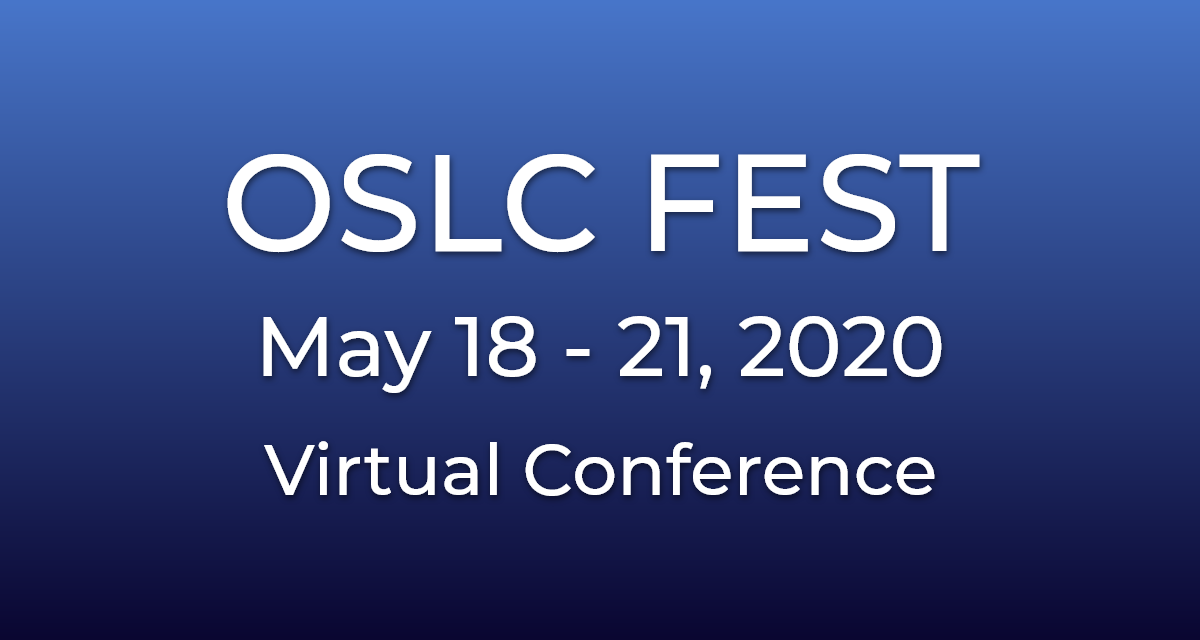
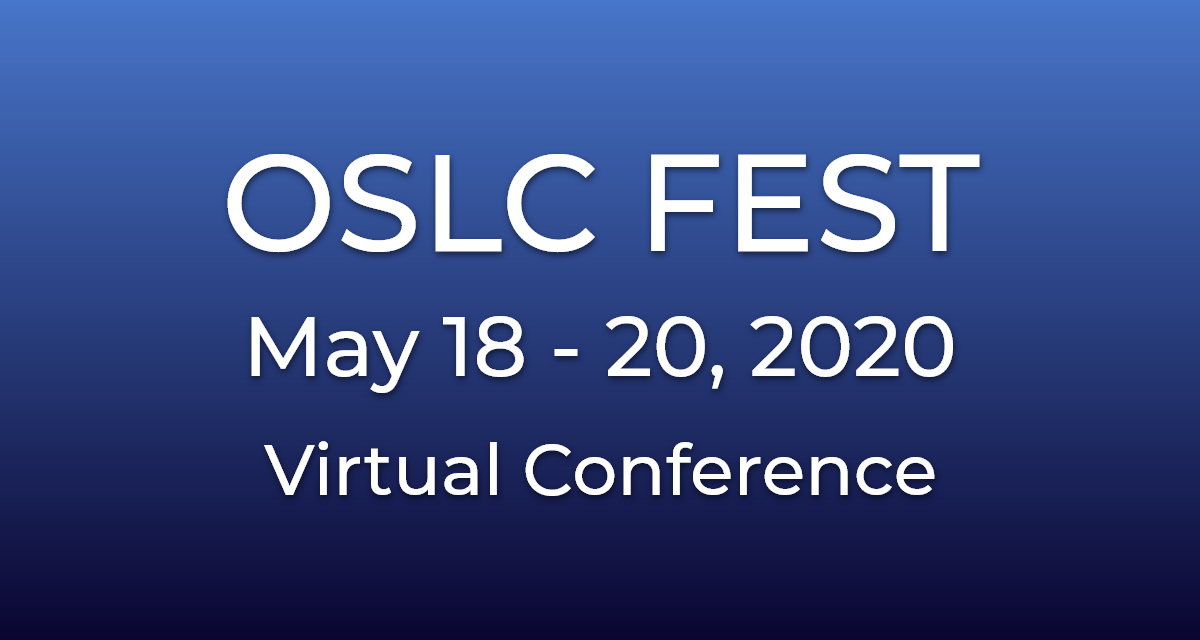
Updating Production Branch

Changed region(s): [[0.4933, 0.4688, 0.8017, 0.625], [0.185, 0.4688, 0.4933, 0.625]]

diff --git a/public/index.html b/public/index.html
@@ -20,12 +20,12 @@
   
   <meta name="twitter:card" content="summary_large_image">
   <meta name="twitter:site" content="@oslcfest">
-  <meta name="twitter:title" content="OSLC Fest May 18 - 21, 2020">
+  <meta name="twitter:title" content="OSLC Fest May 18 - 20, 2020">
   <meta name="twitter:description" content="The second conference on OSLC & LinkedData (OSLCFest) is comming, join us!">
   <meta name="twitter:image" content="http://oslcfest.org/images/banner-2020.png">
 
   
-  <meta property="og:title" content="OSLC Fest May 18 - 21, 2020" />
+  <meta property="og:title" content="OSLC Fest May 18 - 20, 2020" />
   <meta property="og:type" content="article" />
   <meta property="og:url" content="http://oslcfest.org/" />
   <meta property="og:image" content="http://oslcfest.org/images/banner-2020.png" />
@@ -85,7 +85,7 @@
     <div class="section--info">
       <h1 class="text-shadow big">OSLC FEST</h1>
       <h2 class="text-shadow big subtitle">OSLC and Linked Data Unconference</h2>
-      <h2 class="text-shadow big">May 18 - 21, 2020</h2>
+      <h2 class="text-shadow big">May 18 - 20, 2020</h2>
       <h3 class="text-shadow big alt">Virtual Conference</h3>
       <a href="#program" class="section--button registration button white hover--white">
         More information coming soon!

diff --git a/public/2018/index.html b/public/2018/index.html
@@ -20,12 +20,12 @@
   
   <meta name="twitter:card" content="summary_large_image">
   <meta name="twitter:site" content="@oslcfest">
-  <meta name="twitter:title" content="OSLC Fest May 18 - 21, 2020">
+  <meta name="twitter:title" content="OSLC Fest May 18 - 20, 2020">
   <meta name="twitter:description" content="The second conference on OSLC & LinkedData (OSLCFest) is comming, join us!">
   <meta name="twitter:image" content="http://oslcfest.org/images/banner-2020.png">
 
   
-  <meta property="og:title" content="OSLC Fest May 18 - 21, 2020" />
+  <meta property="og:title" content="OSLC Fest May 18 - 20, 2020" />
   <meta property="og:type" content="article" />
   <meta property="og:url" content="http://oslcfest.org/" />
   <meta property="og:image" content="http://oslcfest.org/images/banner-2020.png" />

diff --git a/public/past-events/index.html b/public/past-events/index.html
@@ -19,12 +19,12 @@
   
   <meta name="twitter:card" content="summary_large_image">
   <meta name="twitter:site" content="@oslcfest">
-  <meta name="twitter:title" content="OSLC Fest May 18 - 21, 2020">
+  <meta name="twitter:title" content="OSLC Fest May 18 - 20, 2020">
   <meta name="twitter:description" content="The second conference on OSLC & LinkedData (OSLCFest) is comming, join us!">
   <meta name="twitter:image" content="http://oslcfest.org/images/banner-2020.png">
 
   
-  <meta property="og:title" content="OSLC Fest May 18 - 21, 2020" />
+  <meta property="og:title" content="OSLC Fest May 18 - 20, 2020" />
   <meta property="og:type" content="article" />
   <meta property="og:url" content="http://oslcfest.org/" />
   <meta property="og:image" content="http://oslcfest.org/images/banner-2020.png" />

diff --git a/public/program/cross-discipline-lifecycle-collaboration-forum/index.html b/public/program/cross-discipline-lifecycle-collaboration-forum/index.html
@@ -20,12 +20,12 @@
   
   <meta name="twitter:card" content="summary_large_image">
   <meta name="twitter:site" content="@oslcfest">
-  <meta name="twitter:title" content="OSLC Fest May 18 - 21, 2020">
+  <meta name="twitter:title" content="OSLC Fest May 18 - 20, 2020">
   <meta name="twitter:description" content="The second conference on OSLC & LinkedData (OSLCFest) is comming, join us!">
   <meta name="twitter:image" content="http://oslcfest.org/images/banner-2020.png">
 
   
-  <meta property="og:title" content="OSLC Fest May 18 - 21, 2020" />
+  <meta property="og:title" content="OSLC Fest May 18 - 20, 2020" />
   <meta property="og:type" content="article" />
   <meta property="og:url" content="http://oslcfest.org/" />
   <meta property="og:image" content="http://oslcfest.org/images/banner-2020.png" />

diff --git a/public/program/eclipse-lyo-2-4-0-and-beyond/index.html b/public/program/eclipse-lyo-2-4-0-and-beyond/index.html
@@ -20,12 +20,12 @@
   
   <meta name="twitter:card" content="summary_large_image">
   <meta name="twitter:site" content="@oslcfest">
-  <meta name="twitter:title" content="OSLC Fest May 18 - 21, 2020">
+  <meta name="twitter:title" content="OSLC Fest May 18 - 20, 2020">
   <meta name="twitter:description" content="The second conference on OSLC & LinkedData (OSLCFest) is comming, join us!">
   <meta name="twitter:image" content="http://oslcfest.org/images/banner-2020.png">
 
   
-  <meta property="og:title" content="OSLC Fest May 18 - 21, 2020" />
+  <meta property="og:title" content="OSLC Fest May 18 - 20, 2020" />
   <meta property="og:type" content="article" />
   <meta property="og:url" content="http://oslcfest.org/" />
   <meta property="og:image" content="http://oslcfest.org/images/banner-2020.png" />

diff --git a/public/program/elevating-the-meaning-of-data-and-operation-within-the-toolchain/index.html b/public/program/elevating-the-meaning-of-data-and-operation-within-the-toolchain/index.html
@@ -20,12 +20,12 @@
   
   <meta name="twitter:card" content="summary_large_image">
   <meta name="twitter:site" content="@oslcfest">
-  <meta name="twitter:title" content="OSLC Fest May 18 - 21, 2020">
+  <meta name="twitter:title" content="OSLC Fest May 18 - 20, 2020">
   <meta name="twitter:description" content="The second conference on OSLC & LinkedData (OSLCFest) is comming, join us!">
   <meta name="twitter:image" content="http://oslcfest.org/images/banner-2020.png">
 
   
-  <meta property="og:title" content="OSLC Fest May 18 - 21, 2020" />
+  <meta property="og:title" content="OSLC Fest May 18 - 20, 2020" />
   <meta property="og:type" content="article" />
   <meta property="og:url" content="http://oslcfest.org/" />
   <meta property="og:image" content="http://oslcfest.org/images/banner-2020.png" />

diff --git a/public/program/how-product-line-engineering-can-benefit-from-oslc/index.html b/public/program/how-product-line-engineering-can-benefit-from-oslc/index.html
@@ -20,12 +20,12 @@
   
   <meta name="twitter:card" content="summary_large_image">
   <meta name="twitter:site" content="@oslcfest">
-  <meta name="twitter:title" content="OSLC Fest May 18 - 21, 2020">
+  <meta name="twitter:title" content="OSLC Fest May 18 - 20, 2020">
   <meta name="twitter:description" content="The second conference on OSLC & LinkedData (OSLCFest) is comming, join us!">
   <meta name="twitter:image" content="http://oslcfest.org/images/banner-2020.png">
 
   
-  <meta property="og:title" content="OSLC Fest May 18 - 21, 2020" />
+  <meta property="og:title" content="OSLC Fest May 18 - 20, 2020" />
   <meta property="og:type" content="article" />
   <meta property="og:url" content="http://oslcfest.org/" />
   <meta property="og:image" content="http://oslcfest.org/images/banner-2020.png" />

diff --git a/public/program/index.html b/public/program/index.html
@@ -20,12 +20,12 @@
   
   <meta name="twitter:card" content="summary_large_image">
   <meta name="twitter:site" content="@oslcfest">
-  <meta name="twitter:title" content="OSLC Fest May 18 - 21, 2020">
+  <meta name="twitter:title" content="OSLC Fest May 18 - 20, 2020">
   <meta name="twitter:description" content="The second conference on OSLC & LinkedData (OSLCFest) is comming, join us!">
   <meta name="twitter:image" content="http://oslcfest.org/images/banner-2020.png">
 
   
-  <meta property="og:title" content="OSLC Fest May 18 - 21, 2020" />
+  <meta property="og:title" content="OSLC Fest May 18 - 20, 2020" />
   <meta property="og:type" content="article" />
   <meta property="og:url" content="http://oslcfest.org/" />
   <meta property="og:image" content="http://oslcfest.org/images/banner-2020.png" />

diff --git a/public/program/lifecycle-integration-patterns/index.html b/public/program/lifecycle-integration-patterns/index.html
@@ -20,12 +20,12 @@
   
   <meta name="twitter:card" content="summary_large_image">
   <meta name="twitter:site" content="@oslcfest">
-  <meta name="twitter:title" content="OSLC Fest May 18 - 21, 2020">
+  <meta name="twitter:title" content="OSLC Fest May 18 - 20, 2020">
   <meta name="twitter:description" content="The second conference on OSLC & LinkedData (OSLCFest) is comming, join us!">
   <meta name="twitter:image" content="http://oslcfest.org/images/banner-2020.png">
 
   
-  <meta property="og:title" content="OSLC Fest May 18 - 21, 2020" />
+  <meta property="og:title" content="OSLC Fest May 18 - 20, 2020" />
   <meta property="og:type" content="article" />
   <meta property="og:url" content="http://oslcfest.org/" />
   <meta property="og:image" content="http://oslcfest.org/images/banner-2020.png" />

diff --git a/public/program/open-services-interoperability-and-hypermedia/index.html b/public/program/open-services-interoperability-and-hypermedia/index.html
@@ -20,12 +20,12 @@
   
   <meta name="twitter:card" content="summary_large_image">
   <meta name="twitter:site" content="@oslcfest">
-  <meta name="twitter:title" content="OSLC Fest May 18 - 21, 2020">
+  <meta name="twitter:title" content="OSLC Fest May 18 - 20, 2020">
   <meta name="twitter:description" content="The second conference on OSLC & LinkedData (OSLCFest) is comming, join us!">
   <meta name="twitter:image" content="http://oslcfest.org/images/banner-2020.png">
 
   
-  <meta property="og:title" content="OSLC Fest May 18 - 21, 2020" />
+  <meta property="og:title" content="OSLC Fest May 18 - 20, 2020" />
   <meta property="og:type" content="article" />
   <meta property="og:url" content="http://oslcfest.org/" />
   <meta property="og:image" content="http://oslcfest.org/images/banner-2020.png" />

diff --git a/public/program/oslc-and-configuration-aware-links-between-alm-and-plm-systems/index.html b/public/program/oslc-and-configuration-aware-links-between-alm-and-plm-systems/index.html
@@ -20,12 +20,12 @@
   
   <meta name="twitter:card" content="summary_large_image">
   <meta name="twitter:site" content="@oslcfest">
-  <meta name="twitter:title" content="OSLC Fest May 18 - 21, 2020">
+  <meta name="twitter:title" content="OSLC Fest May 18 - 20, 2020">
   <meta name="twitter:description" content="The second conference on OSLC & LinkedData (OSLCFest) is comming, join us!">
   <meta name="twitter:image" content="http://oslcfest.org/images/banner-2020.png">
 
   
-  <meta property="og:title" content="OSLC Fest May 18 - 21, 2020" />
+  <meta property="og:title" content="OSLC Fest May 18 - 20, 2020" />
   <meta property="og:type" content="article" />
   <meta property="og:url" content="http://oslcfest.org/" />
   <meta property="og:image" content="http://oslcfest.org/images/banner-2020.png" />

diff --git a/public/program/oslc-through-the-formative-years/index.html b/public/program/oslc-through-the-formative-years/index.html
@@ -20,12 +20,12 @@
   
   <meta name="twitter:card" content="summary_large_image">
   <meta name="twitter:site" content="@oslcfest">
-  <meta name="twitter:title" content="OSLC Fest May 18 - 21, 2020">
+  <meta name="twitter:title" content="OSLC Fest May 18 - 20, 2020">
   <meta name="twitter:description" content="The second conference on OSLC & LinkedData (OSLCFest) is comming, join us!">
   <meta name="twitter:image" content="http://oslcfest.org/images/banner-2020.png">
 
   
-  <meta property="og:title" content="OSLC Fest May 18 - 21, 2020" />
+  <meta property="og:title" content="OSLC Fest May 18 - 20, 2020" />
   <meta property="og:type" content="article" />
   <meta property="og:url" content="http://oslcfest.org/" />
   <meta property="og:image" content="http://oslcfest.org/images/banner-2020.png" />
